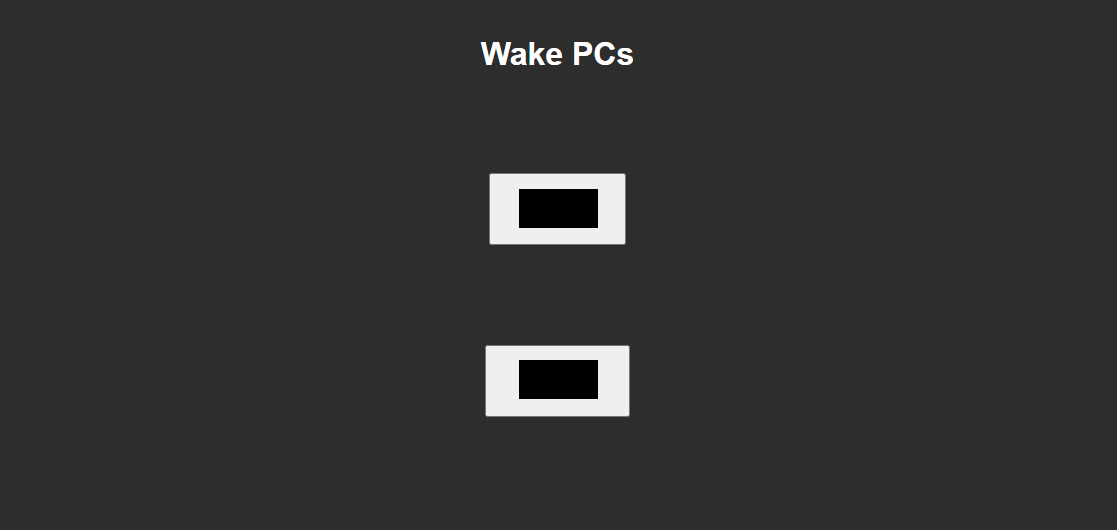
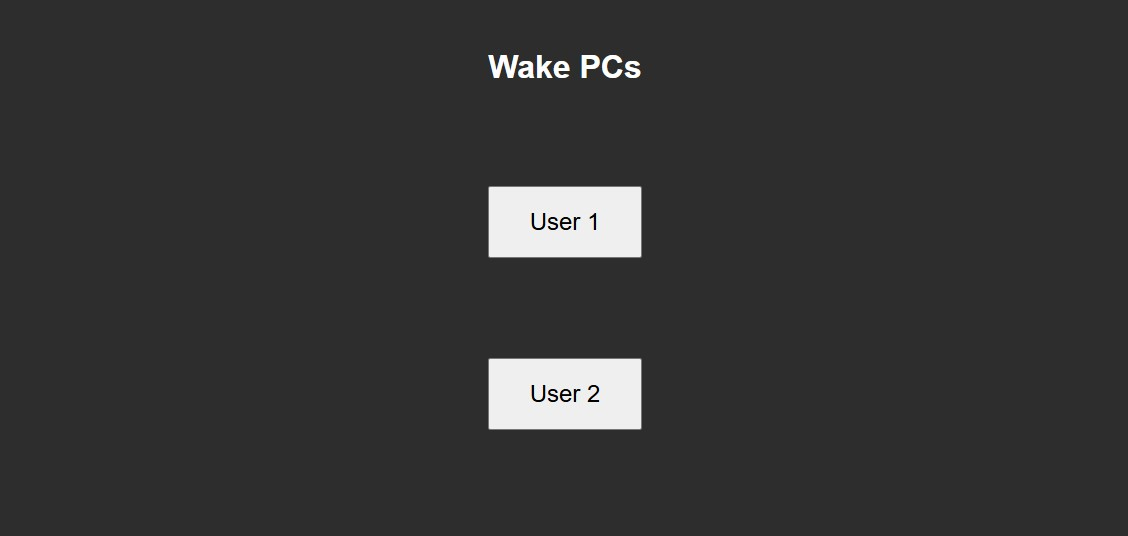
Harden WoL and save MACs in env file
- Run the service as a dynamic user with specific CAP_NET_RAW capability
- Move IMPORTANT.md content into docs as note
- Update docs' formatting and content, update preview screenshot

Changed region(s): [[0.4261, 0.3019, 0.5783, 0.483], [0.4261, 0.634, 0.5783, 0.8151], [0.4261, 0.0604, 0.5783, 0.1509]]

diff --git a/configs/wol-server/wol-server.py b/configs/wol-server/wol-server.py
@@ -1,17 +1,12 @@
-"""
-
-Before proceeding, please read 'IMPORTANT.md'
-
-"""
-
 #!/usr/bin/env python3
 from http.server import BaseHTTPRequestHandler, HTTPServer
 import subprocess
+import os
 
 class WOLHandler(BaseHTTPRequestHandler):
     def log_message(self, format, *args):
         pass  # Suppress all HTTP request logging
-    
+
     def do_GET(self):
         if self.path == '/':
             self.send_response(200)
@@ -35,30 +30,30 @@ class WOLHandler(BaseHTTPRequestHandler):
                 </script>
             </head>
             <body style="text-align:center; background-color:#2d2d2d; padding-top:100px; font-family:Arial;">
-                <h1>Wake PCs</h1>
-                <button onclick="wakePC('USER1')" style="font-size:24px; padding:20px 40px; cursor:pointer; display:block; margin:100px auto;">
-                    USER1
+                <h1 style="color:white">Wake PCs</h1>
+                <button onclick="wakePC('user1')" style="font-size:24px; padding:20px 40px; cursor:pointer; display:block; margin:100px auto;">
+                    User 1
                 </button>
-                <button onclick="wakePC('USER2')" style="font-size:24px; padding:20px 40px; cursor:pointer; display:block; margin:100px auto;">
-                    USER2
+                <button onclick="wakePC('user2')" style="font-size:24px; padding:20px 40px; cursor:pointer; display:block; margin:100px auto;">
+                    User 2
                 </button>
                 <p id="status" style="color:green; font-size:18px; margin-top:20px; min-height:30px;"></p>
             </body>
             </html>
             '''
             self.wfile.write(html.encode())
-    
+
     def do_POST(self):
-        if self.path == '/wake/USER1':
-            subprocess.run(['etherwake', 'USER1_MAC'])  # MAC separated with ":"
+        if self.path == '/wake/user1':
+            subprocess.run(['etherwake', os.environ['USER1_MAC']])
             self.send_response(200)
             self.end_headers()
-        elif self.path == '/wake/USER2':
-            subprocess.run(['etherwake', 'USER2_MAC'])  # MAC separated with ":"
+        elif self.path == '/wake/user2':
+            subprocess.run(['etherwake', os.environ['USER2_MAC']])
             self.send_response(200)
             self.end_headers()
 
 if __name__ == '__main__':
-    server = HTTPServer(('0.0.0.0', 8080), WOLHandler) # Change port if desired
+    server = HTTPServer(('0.0.0.0', 8080), WOLHandler)
     print('Server running on port 8080...')
     server.serve_forever()

diff --git a/docs/wol.md b/docs/wol.md
@@ -1,19 +1,37 @@
 # Wake on LAN (WoL)
 I added WoL to remotely power on devices on my network.
-Typically used with [RustDesk](/docs/rustdesk.md).
+Typically used to wake a PC up before connecting to it via [RustDesk](/docs/rustdesk.md).
 
 ## WoL Configuration
 
 The WoL service uses Python's `http.server` library on port 8080 to host a web server that features a GUI with 2 buttons, one per user.
 
-When the buttons are pressed, the code uses the _etherwake_ tool to send a magic packet via the MAC address of the target machine.
+When a button is pressed, the code uses the `etherwake` tool to send a magic packet to the target machine's MAC address.
+
+Previously, the users' MAC addresses were hardcoded in the Python script. Now they are saved in an environment file, and are read by the `os` module.
+
+WoL environment file example: [wol.env.example](/configs/wol-server/wol.env.example)
+
+The WoL code: [wol-server.py](/configs/wol-server/wol-server.py)
+
+> [!NOTE]
+>
+> The code was generated with [Claude AI](https://claude.ai), and adjusted to my homelab needs. 
+>
+> The code is built for 2 users. If you plan on using this code, make sure to adjust it to your needs.
+
+## Running as a systemd Service
 
 Because `http.server` doesn't persist after the terminal session is closed, I've configured it as a systemd service.
 
-`.service` file: [wol-server.service.example](/configs/wol-server/wol-server.service.example)
+Previously, the service ran as root. Now it runs with least privilege by using a dynamic user with a single capability, `CAP_NET_RAW`, which `etherwake` needs to send raw packets.
 
-The WoL code: [wol-server.py](/configs/wol-server/wol-server.py)
+Systemd service file example: [wol-server.service.example](/configs/wol-server/wol-server.service.example)
 
 ## Web Interface
 
 ![Site Preview](/images/WoL/SitePreview.png)
+
+> [!NOTE]
+>
+> Button labels are placeholders.
